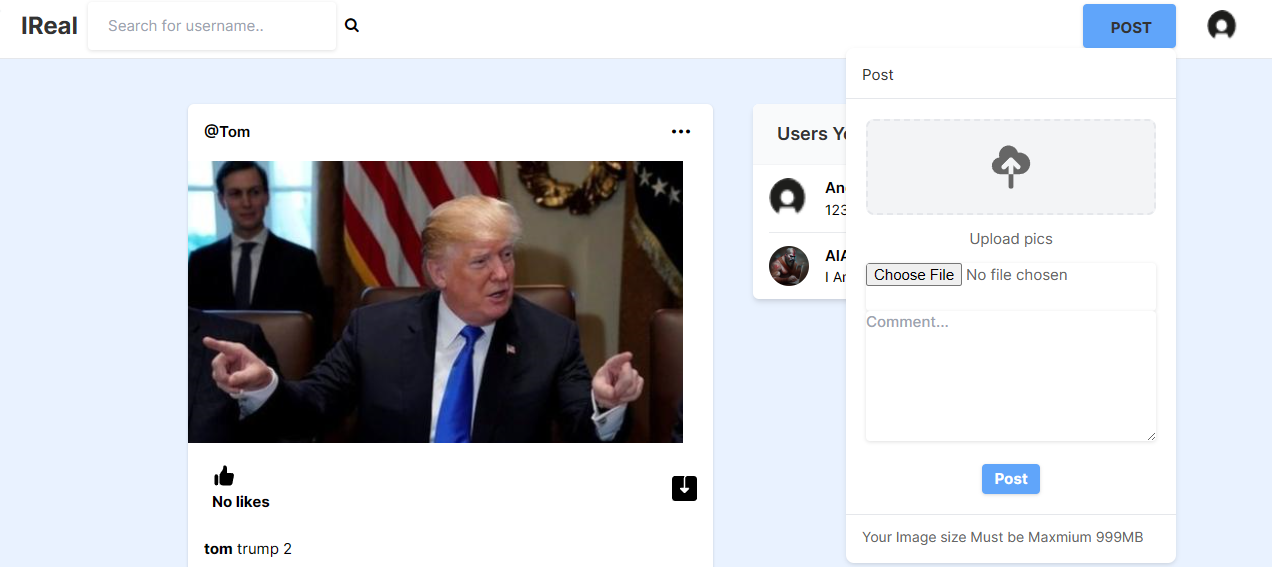
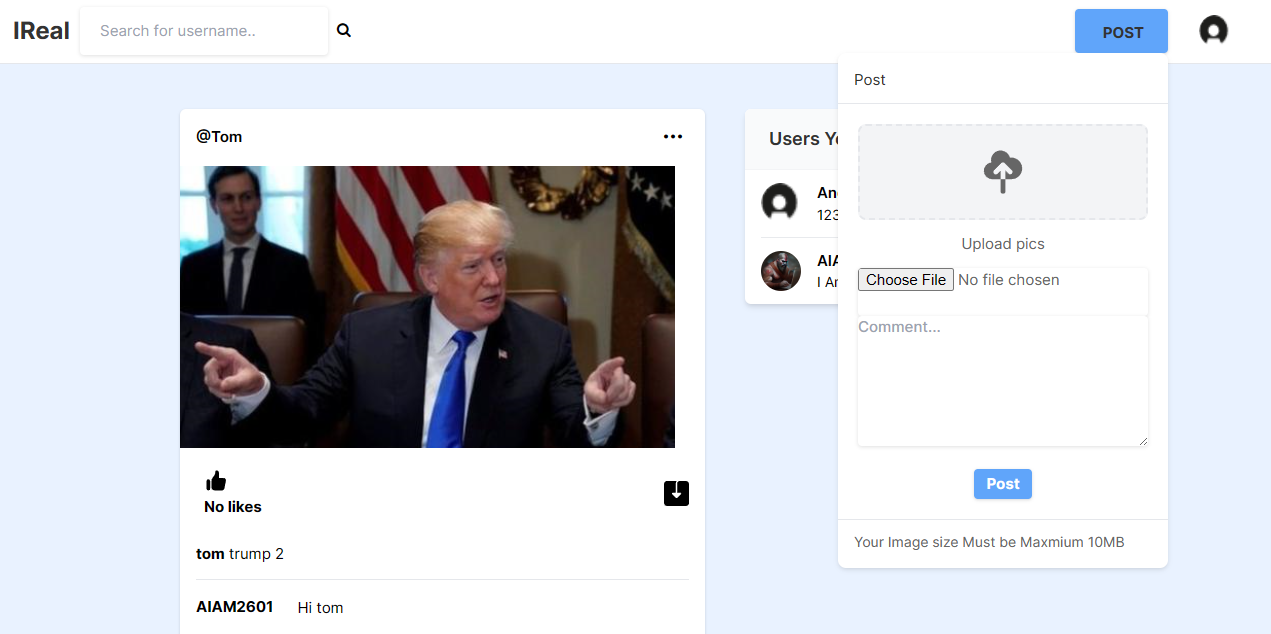
update

diff --git a/social_book/templates/index.html b/social_book/templates/index.html
@@ -104,7 +104,7 @@
                             </div>
                         </div>
                     <div class="px-4 py-3 -mx-5 -mb-4 mt-5 border-t text-sm">
-                        Your Image size Must be Maxmium 999MB
+                        Your Image size Must be Maxmium 10MB
                     </div>
                 </div>
                 
